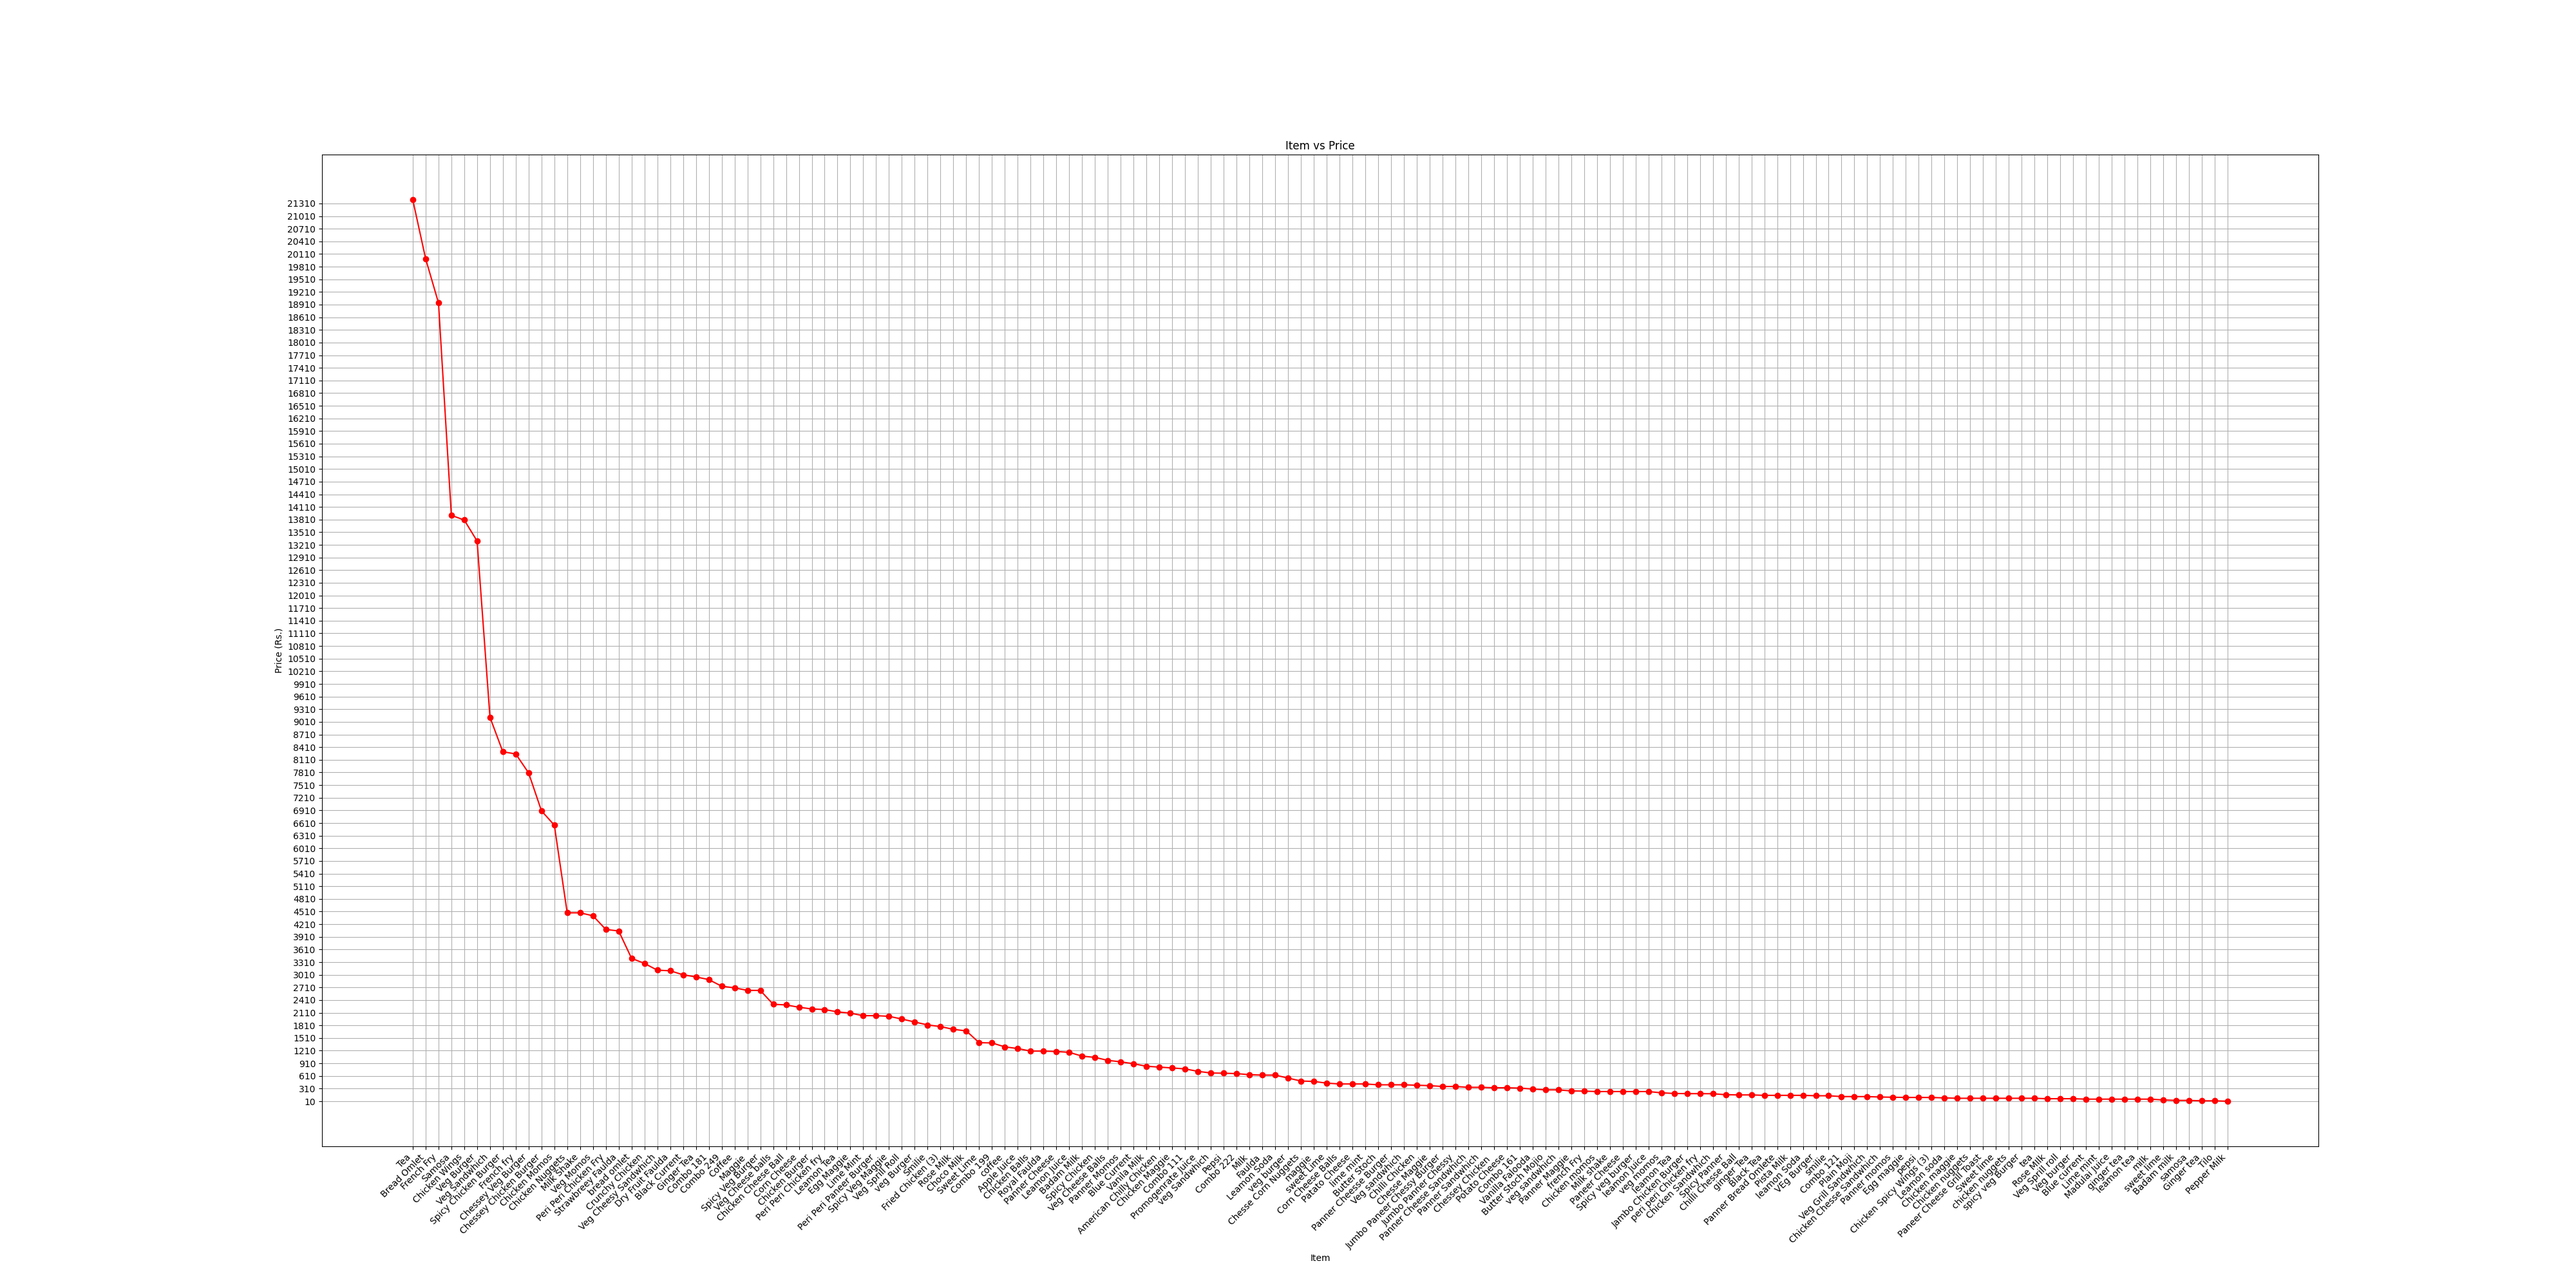
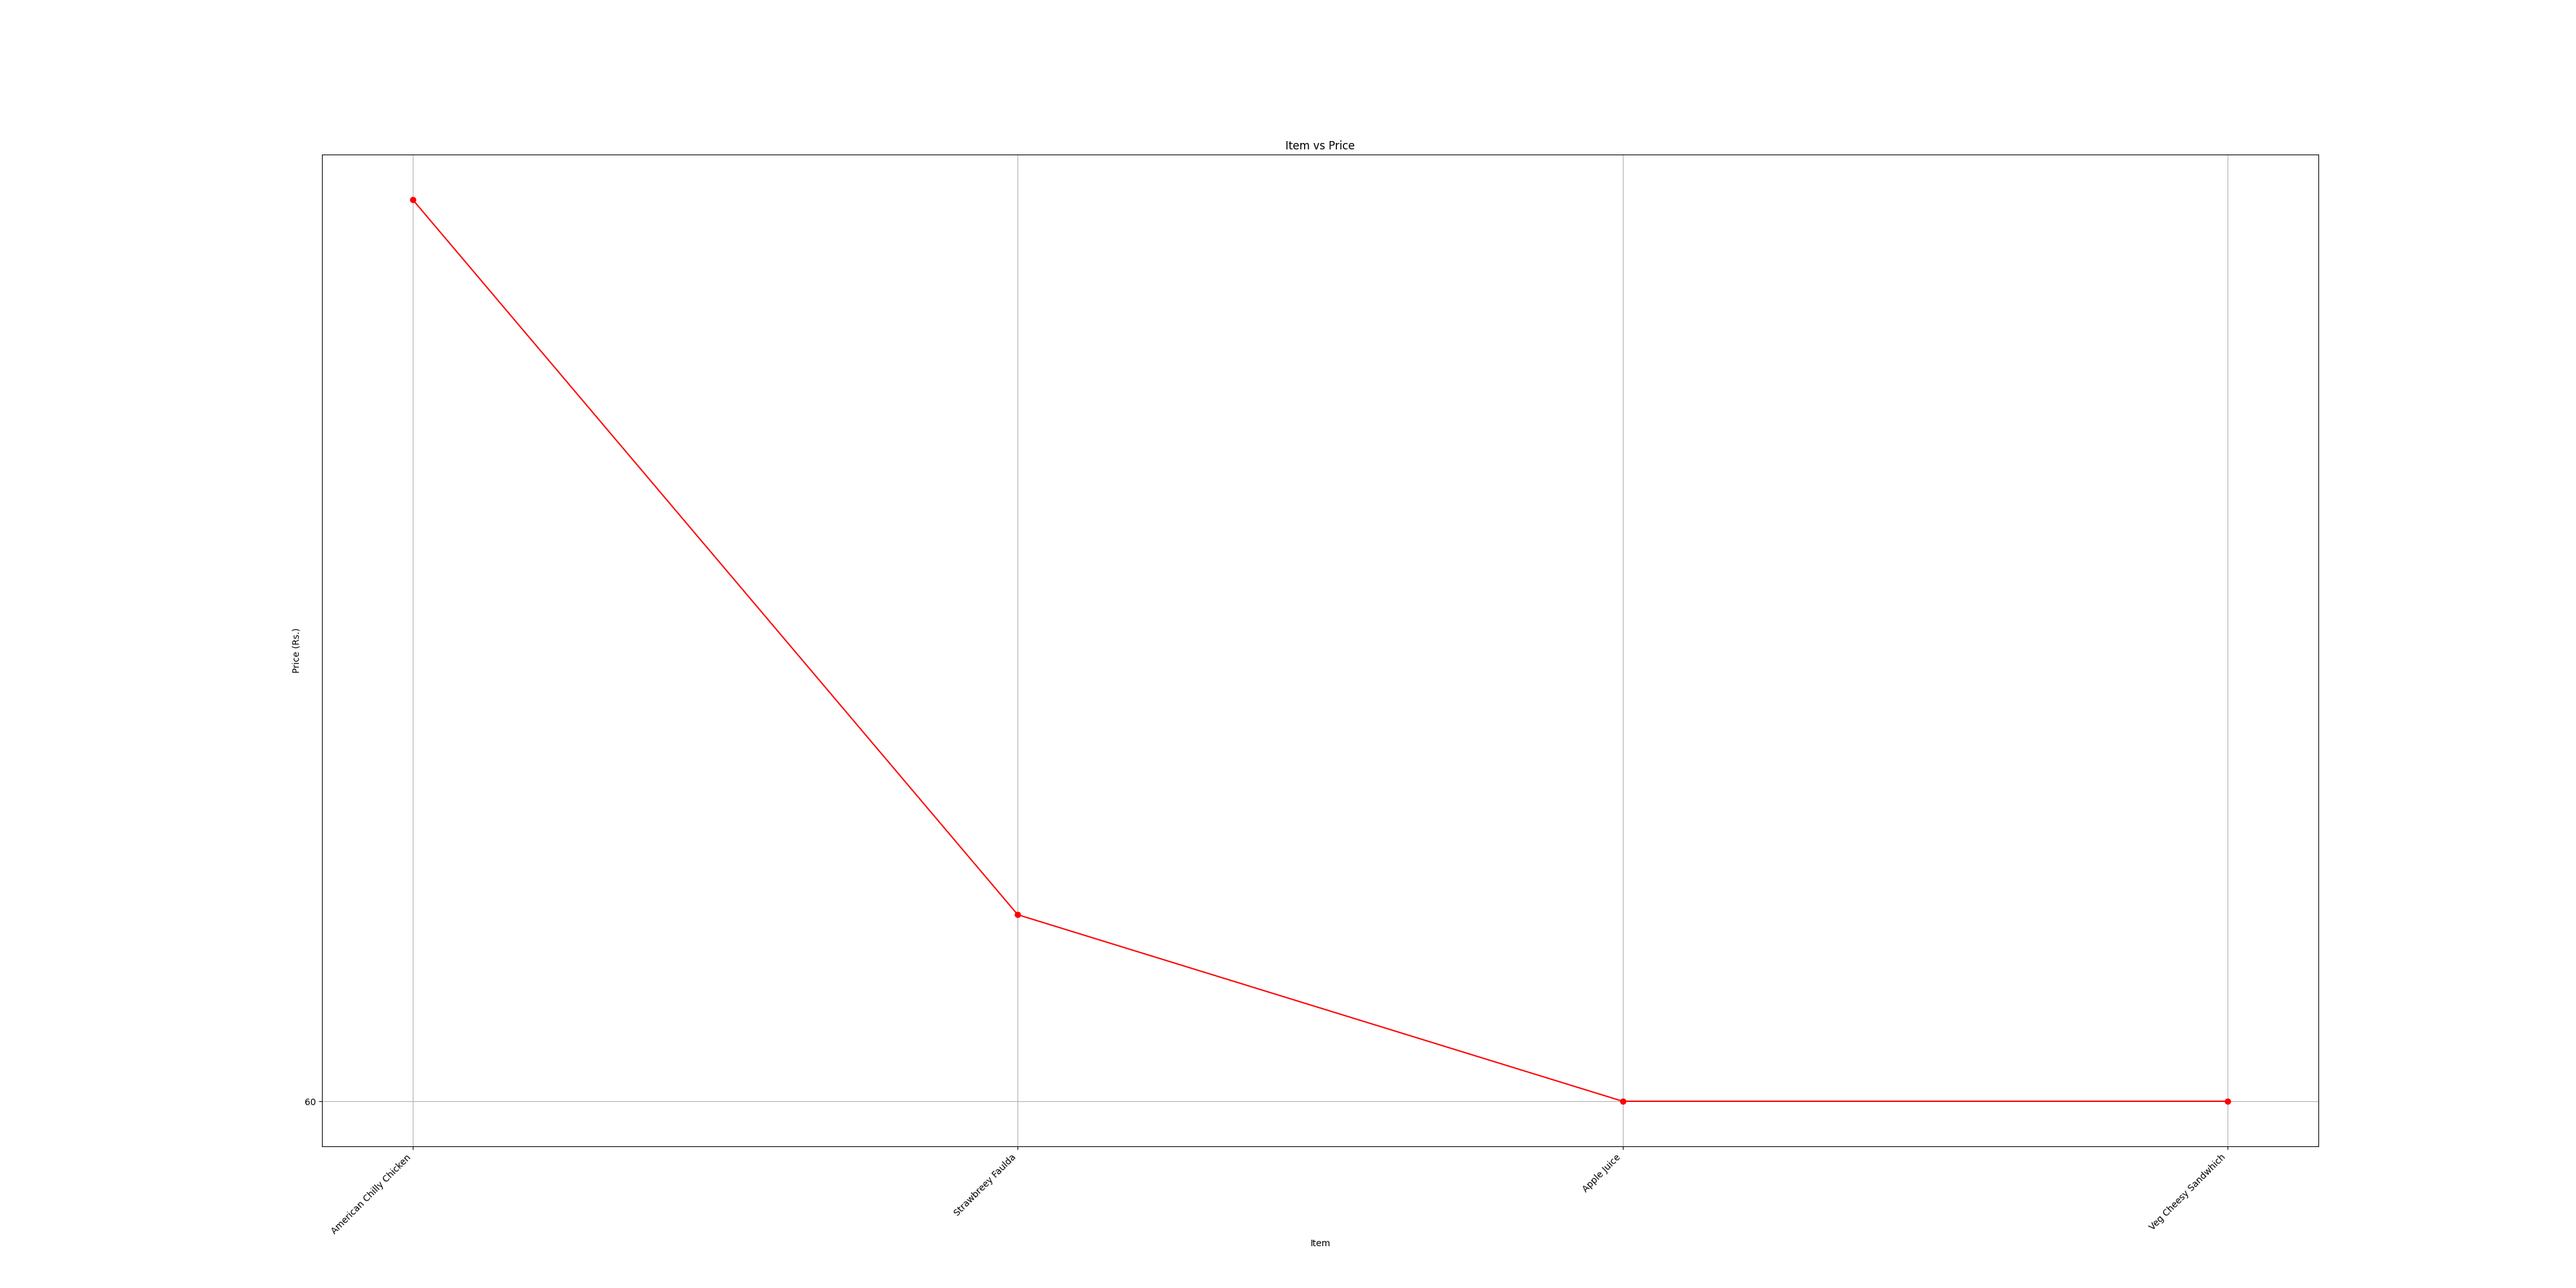
added ansalysis for current date

Changed region(s): [[0.1562, 0.155, 0.8438, 0.868], [0.1562, 0.899, 0.875, 0.961], [0.0938, 0.496, 0.125, 0.527]]

diff --git a/src/templates/analysis-today.html b/src/templates/analysis-today.html
@@ -1,0 +1,174 @@
+<!DOCTYPE html>
+<html lang="en">
+<head>
+    <meta charset="UTF-8">
+    <title>Today's Analysis</title>
+    <style>
+        body {
+            font-family: Arial, sans-serif;
+            background-color: #F8F8F8;
+            padding: 20px;
+        }
+
+        h1 {
+            color: #CC3333;
+            text-align: center;
+        }
+
+        h3 {
+            color: #CC3333;
+            text-align: left;
+        }
+
+        h4 {
+            color: black;
+            margin-bottom: 10px;
+            text-decoration: underline;
+        }
+
+        p {
+            margin: 0;
+            padding-top: 10px;
+        }
+
+        img {
+            display: block;
+            margin: 0 auto;
+            max-width: 100%;
+            height: auto;
+            padding: 10px;
+        }
+
+        .table-container {
+            max-width: 800px;
+            margin: 0 auto;
+            overflow-x: auto;
+        }
+
+        table {
+            width: 100%;
+            border-collapse: collapse;
+        }
+
+        th,
+        td {
+            padding: 10px;
+            text-align: left;
+            border: 1px dotted black;
+        }
+
+        th {
+            background-color: #CC3333;
+            color: #FFFFFF;
+        }
+
+        a.button {
+            display: block;
+            width: 200px;
+            margin: 0 auto;
+            padding: 10px;
+            background-color: #CC3333;
+            color: #FFFFFF;
+            text-decoration: none;
+            text-align: center;
+            border-radius: 5px;
+            font-weight: bold;
+            margin-top: 20px;
+        }
+    </style>
+</head>
+<body>
+<h1>Today's Analysis ({{ date }})</h1>
+<u><h3>1. Today's analysis of {{ title[0] }}</h3></u>
+<h4>Graph</h4>
+<img src="{{ filename[0] }}" alt="{{ title[0] }} Graph">
+<h4>Table</h4>
+<div class="table-container">
+    <table>
+        <tr>
+            <th>S.No</th>
+            <th>Item</th>
+            <th>Price</th>
+        </tr>
+        {% for item in ItemPriceData %}
+            <tr>
+                <td>{{ loop.index }}</td>
+                <td>{{ item[0] }}</td>
+                <td>{{ item[1] }}</td>
+            </tr>
+        {% endfor %}
+    </table>
+</div>
+<br>
+<hr>
+<br>
+
+<u><h3>2. Today's analysis of {{ title[1] }}</h3></u>
+<h4>Graph</h4>
+<img src="{{ filename[1] }}" alt="{{ title[1] }} Graph">
+<h4>Table</h4>
+<div class="table-container">
+    <table>
+        <tr>
+            <th>S.No</th>
+            <th>Item</th>
+            <th>Qty</th>
+        </tr>
+        {% for item in ItemQty %}
+            <tr>
+                <td>{{ loop.index }}</td>
+                <td>{{ item[0] }}</td>
+                <td>{{ item[1] }}</td>
+            </tr>
+        {% endfor %}
+    </table>
+</div>
+<br>
+<hr>
+<br>
+
+<u><h3>3. {{ title[2] }}</h3></u>
+<h4>Table</h4>
+<div class="table-container">
+    <table>
+        <tr>
+            <th>S.No</th>
+            <th>Date</th>
+            <th>Price</th>
+        </tr>
+        {% for item in DatePrice %}
+            <tr>
+                <td>{{ loop.index }}</td>
+                <td>{{ item[0] }}</td>
+                <td>{{ item[1] }}</td>
+            </tr>
+        {% endfor %}
+    </table>
+</div>
+<br>
+<hr>
+<br>
+
+<u><h3>4. {{ title[3] }}</h3></u>
+<h4>Table</h4>
+<div class="table-container">
+    <table>
+        <tr>
+            <th>S.No</th>
+            <th>Date</th>
+            <th>Qty.</th>
+        </tr>
+        {% for item in DateQty %}
+            <tr>
+                <td>{{ loop.index }}</td>
+                <td>{{ item[0] }}</td>
+                <td>{{ item[1] }}</td>
+            </tr>
+        {% endfor %}
+    </table>
+</div>
+<br>
+
+<a href="{{ url_for('home') }}" class="button">Go to Dashboard</a>
+</body>
+</html>

diff --git a/src/templates/analysis.html b/src/templates/analysis.html
@@ -43,6 +43,7 @@
 <h1>Sales Analysis</h1><br>
 
 <p>Select from the options below to get insight into the sales:</p>
+<a href="{{ url_for('todayAnalysis') }}">Today's Analysis</a><br>
 <a href="{{ url_for('dailyAnalysis') }}">Daily Analysis</a><br>
 <a href="{{ url_for('weeklyAnalysis') }}">Weekly Analysis</a>
 </body>

diff --git a/src/main.py b/src/main.py
@@ -1,5 +1,5 @@
 import os
-from datetime import datetime
+from datetime import datetime, date
 
 import matplotlib.dates as mdates
 import matplotlib.pyplot as plt
@@ -221,6 +221,61 @@ def weeklyAnalysis():
     return make_response(
         render_template('analysis-weekly.html', filename=filename, title=title, weekQty=weekQty, weekSales=weekSales),
         200)
+
+@app.route("/todays-analysis")
+def todayAnalysis():
+    today = date.today().strftime("%B %d, %Y")
+
+    grouped_ordersDateQty = db.session.query(Orders.date, db.func.sum(Orders.qty)).filter(
+        Orders.date == today).group_by(Orders.date).all()
+    grouped_ordersDatePrice = db.session.query(Orders.date, db.func.sum(Orders.price)).filter(
+        Orders.date == today).group_by(Orders.date).all()
+    grouped_ordersItemQty = db.session.query(Orders.item, db.func.sum(Orders.qty)).filter(
+        Orders.date == today).group_by(Orders.item).all()
+    grouped_ordersItemPrice = db.session.query(Orders.item, db.func.sum(Orders.price)).filter(
+        Orders.date == today).group_by(Orders.item).all()
+
+    if not grouped_ordersDateQty or not grouped_ordersDatePrice:
+        return make_response("No data available for today's date", 200)
+
+    price = grouped_ordersDatePrice[0][1]
+    qty = grouped_ordersDateQty[0][1]
+
+    fig, ax = plt.subplots()
+    ax.xaxis.set_major_formatter(mdates.DateFormatter("%B %d, %Y"))
+    ax.xaxis.set_major_locator(mdates.AutoDateLocator())
+
+    dateQty = [[today.split(" ")[0], qty]]
+    datePrice = [[today.split(" ")[0], "Rs. " + str(price)]]
+
+    Dprice, Dqty = {}, {}
+    for oneData in range(len(grouped_ordersItemQty)):
+        Dqty[grouped_ordersItemQty[oneData][0]] = grouped_ordersItemQty[oneData][1]
+
+    for oneData in range(len(grouped_ordersItemPrice)):
+        Dprice[grouped_ordersItemQty[oneData][0]] = grouped_ordersItemPrice[oneData][1]
+
+    Dqty = dict(sorted(Dqty.items(), key=lambda x: x[1], reverse=True))
+    Dprice = dict(sorted(Dprice.items(), key=lambda x: x[1], reverse=True))
+
+    fnameItemPrice = plotItemGraph(Dprice.keys(), Dprice.values(), "Item vs Price")
+    fnameItemQty = plotItemGraph(Dqty.keys(), Dqty.values(), "Item vs Qty")
+
+    filename = [fnameItemPrice, fnameItemQty]
+    title = ["Item vs Price", "Item vs Qty","Price Table","Qty. Table"]
+
+    itemPrice = []
+    itemQty = []
+
+    for oneData in Dprice.keys():
+        itemPrice.append([oneData, "Rs. " + str(Dprice[oneData])])
+
+    for oneData in Dqty.keys():
+        itemQty.append([oneData, Dqty[oneData]])
+
+    return make_response(
+        render_template('analysis-today.html', filename=filename, title=title, DatePrice=datePrice, DateQty=dateQty,
+                        ItemPriceData=itemPrice, ItemQty=itemQty, date =str(datetime.now().strftime('%B %d, %Y'))), 200)
 
 
 def fetchOrderData(form):
